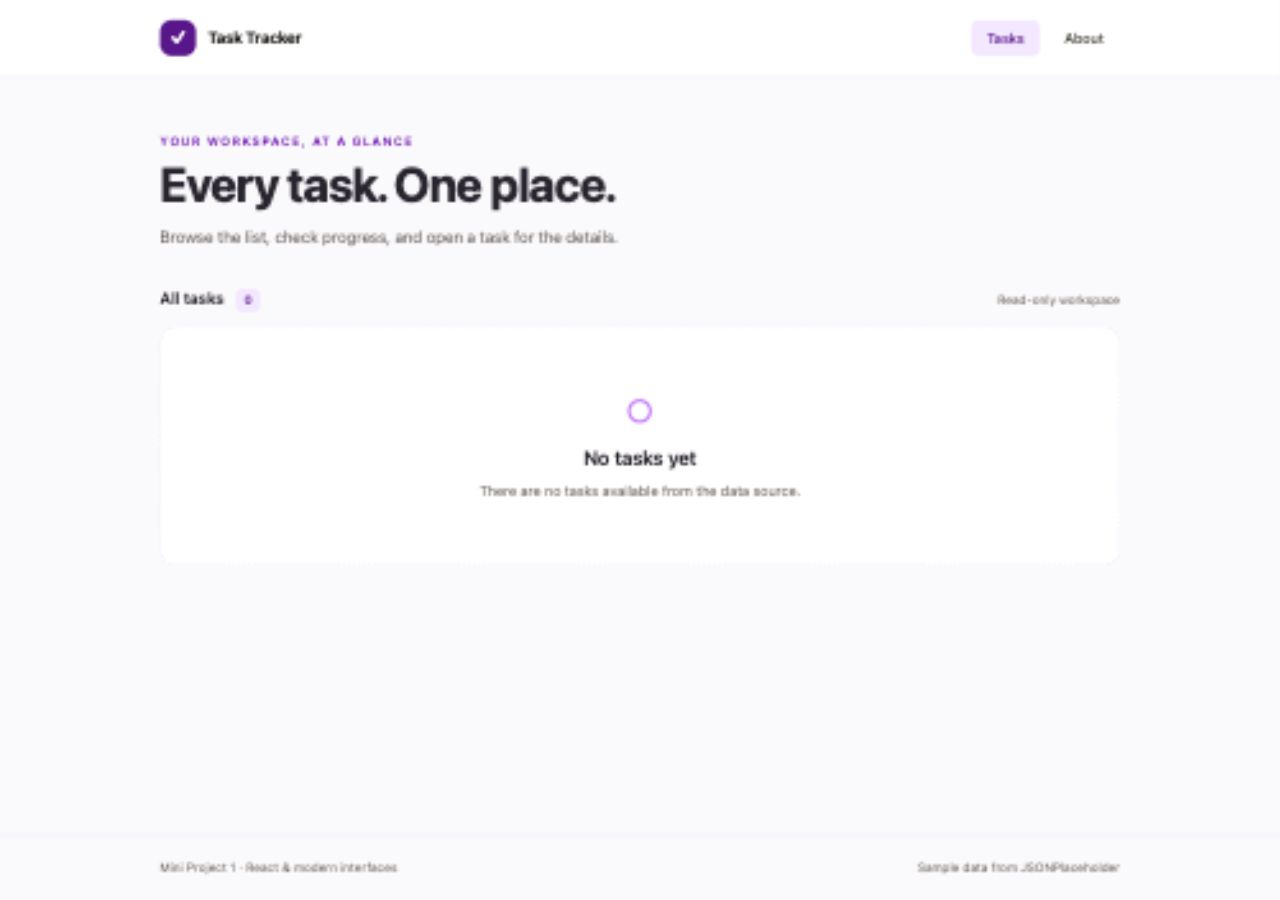
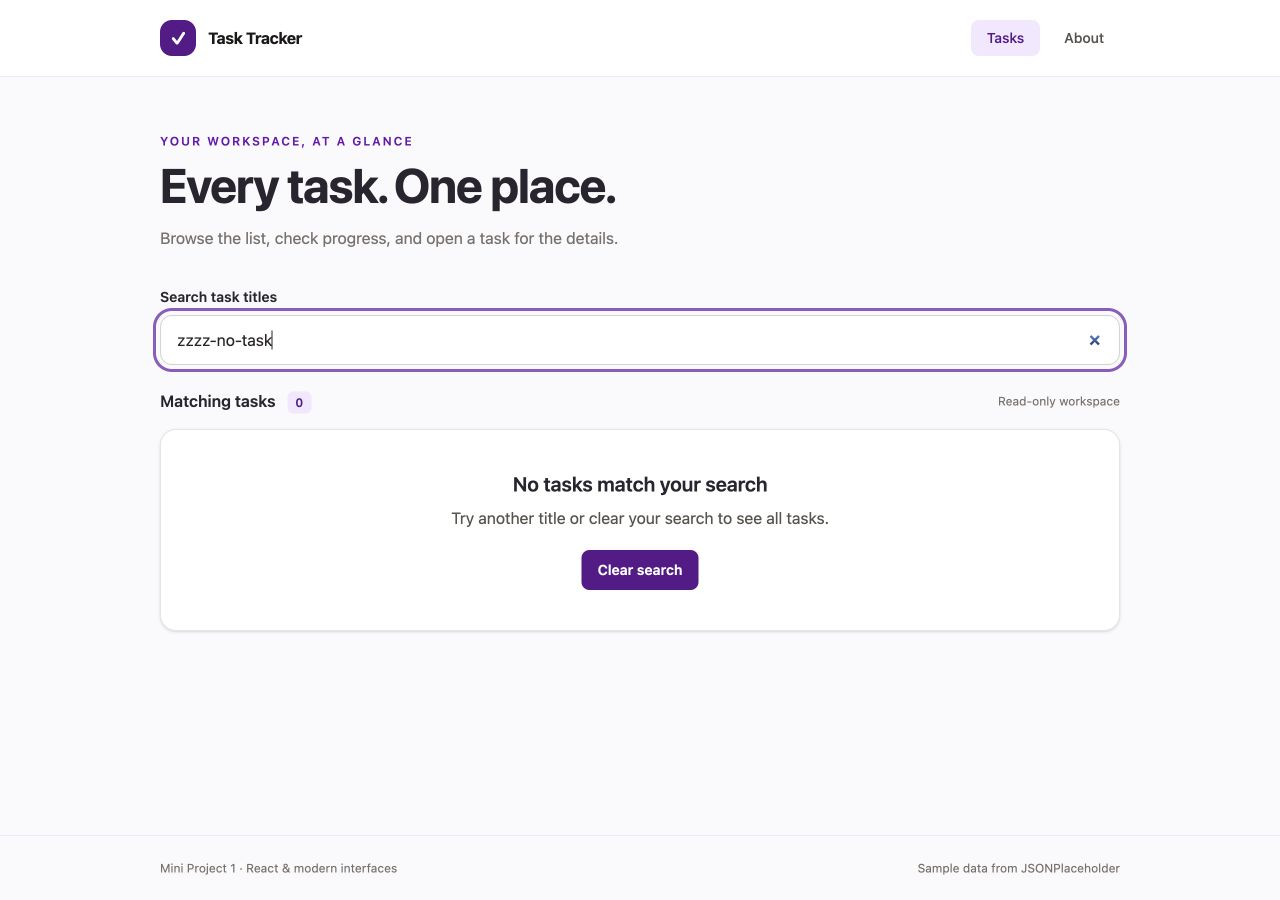
Add useState title search and complete assignment documentation

diff --git a/src/pages/TasksPage.jsx b/src/pages/TasksPage.jsx
@@ -1,3 +1,5 @@
+import { useState } from "react";
+import TaskSearch from "../components/TaskSearch";
 import { useQuery } from "@tanstack/react-query";
 import { getTasks } from "../api/tasks";
 import TaskList from "../components/TaskList";
@@ -7,7 +9,12 @@ import {
   EmptyState,
 } from "../components/RequestStates";
 export default function TasksPage() {
+  const [search, setSearch] = useState("");
   const query = useQuery({ queryKey: ["todos"], queryFn: getTasks });
+  const searchTerm = search.trim().toLowerCase();
+  const filteredTasks = (query.data ?? []).filter((task) =>
+    task.title.toLowerCase().includes(searchTerm),
+  );
   return (
     <>
       <div className="mb-9">
@@ -32,11 +39,12 @@ export default function TasksPage() {
           )}
           {query.data && (
             <>
+              <TaskSearch value={search} onChange={setSearch} />
               <div className="mb-4 flex items-center justify-between gap-4">
                 <h2 className="font-semibold">
-                  All tasks{" "}
+                  {searchTerm ? "Matching tasks" : "All tasks"}{" "}
                   <span className="ml-2 rounded-md bg-purple-100 px-2 py-1 text-xs text-purple-900">
-                    {query.data.length}
+                    {filteredTasks.length}
                   </span>
                 </h2>
                 <span className="text-xs text-stone-500">
@@ -44,7 +52,25 @@ export default function TasksPage() {
                 </span>
               </div>
               {query.data.length ? (
-                <TaskList tasks={query.data} />
+                filteredTasks.length ? (
+                  <TaskList tasks={filteredTasks} />
+                ) : (
+                  <section className="panel text-center" aria-live="polite">
+                    <h2 className="text-xl font-semibold">
+                      No tasks match your search
+                    </h2>
+                    <p className="mt-2 text-stone-600">
+                      Try another title or clear your search to see all tasks.
+                    </p>
+                    <button
+                      type="button"
+                      className="button mt-5"
+                      onClick={() => setSearch("")}
+                    >
+                      Clear search
+                    </button>
+                  </section>
+                )
               ) : (
                 <EmptyState />
               )}

diff --git a/src/test/app.test.jsx b/src/test/app.test.jsx
@@ -152,3 +152,47 @@ describe("Task Tracker", () => {
     );
   });
 });
+
+describe("Task title search", () => {
+  it("filters case-insensitively, trims whitespace, and does not refetch", async () => {
+    const fetchMock = vi
+      .spyOn(globalThis, "fetch")
+      .mockResolvedValue(response(tasks));
+    const user = userEvent.setup();
+    mount();
+    await screen.findByRole("link", { name: tasks[0].title });
+    await user.type(
+      screen.getByRole("searchbox", { name: "Search task titles" }),
+      "  REVIEW  ",
+    );
+    expect(
+      screen.getByRole("link", { name: tasks[1].title }),
+    ).toBeInTheDocument();
+    expect(
+      screen.queryByRole("link", { name: tasks[0].title }),
+    ).not.toBeInTheDocument();
+    expect(
+      screen.getByRole("heading", { name: "Matching tasks 1" }),
+    ).toBeInTheDocument();
+    expect(fetchMock).toHaveBeenCalledTimes(1);
+  });
+
+  it("shows no matches and restores all tasks when search is cleared", async () => {
+    vi.spyOn(globalThis, "fetch").mockResolvedValue(response(tasks));
+    const user = userEvent.setup();
+    mount();
+    await screen.findByRole("link", { name: tasks[0].title });
+    await user.type(screen.getByRole("searchbox"), "zzzz-no-task");
+    expect(
+      screen.getByRole("heading", { name: "No tasks match your search" }),
+    ).toBeInTheDocument();
+    await user.click(screen.getByRole("button", { name: "Clear search" }));
+    expect(screen.getByRole("searchbox")).toHaveValue("");
+    expect(
+      screen.getByRole("link", { name: tasks[0].title }),
+    ).toBeInTheDocument();
+    expect(
+      screen.getByRole("link", { name: tasks[1].title }),
+    ).toBeInTheDocument();
+  });
+});

diff --git a/src/components/TaskSearch.jsx b/src/components/TaskSearch.jsx
@@ -1,0 +1,17 @@
+export default function TaskSearch({ value, onChange }) {
+  return (
+    <div className="mb-6">
+      <label htmlFor="task-search" className="mb-2 block text-sm font-semibold">
+        Search task titles
+      </label>
+      <input
+        id="task-search"
+        type="search"
+        value={value}
+        onChange={(event) => onChange(event.target.value)}
+        placeholder="Search tasks…"
+        className="w-full rounded-xl border border-stone-300 bg-white px-4 py-3 text-stone-800 placeholder:text-stone-400"
+      />
+    </div>
+  );
+}

diff --git a/README.md b/README.md
@@ -1,6 +1,6 @@
 # Task Tracker
 
-A read-only React task browser for Mini Project 1, Full Stack Development with AI. Browse tasks, open details, and inspect their Open/Done status.
+A read-only React task browser for Mini Project 1, Full Stack Development with AI. Browse and search task titles, open details, and inspect their Open/Done status.
 
 ## Run locally
 
@@ -29,7 +29,7 @@ npm run preview
 - `/about`: purpose, technology, and data attribution.
 - Unknown routes and missing tasks have friendly fallback screens.
 
-`Layout` owns shared navigation. `TaskList` passes each task to `TaskRow`; `StatusBadge` renders completion state. Pages own queries and compose reusable loading, error, and empty-state components. React Router handles navigation; there is no duplicated task state in `useState`.
+`Layout` owns shared navigation. `TaskList` passes each task to `TaskRow`; `StatusBadge` renders completion state. Pages own queries and compose reusable loading, error, and empty-state components. `TasksPage` owns the search string with `useState` because both the search field and displayed list need it. `TaskSearch` receives the value and an `onChange` callback through props. The filtered list is derived from Query data and the search string; server data is never duplicated in local state. Search is case-insensitive, ignores surrounding whitespace, and resets when the Tasks page unmounts. React Router handles navigation.
 
 ## Data and caching
 
@@ -44,14 +44,14 @@ Automatic retries are disabled so failures are visible; **Try again** manually r
 - **Success:** open the app with internet access.
 - **Loading:** open browser Network tools, throttle the connection, and reload to clear in-memory Query data.
 - **Error/retry:** block `https://jsonplaceholder.typicode.com/*` in browser Network tools and reload; unblock it and select **Try again**. Request blocking is preferable to offline mode, which may pause Query requests.
-- **Empty:** `npm test -- -t 'shows an empty state'` supplies a controlled `[]` response and verifies the empty message.
+- **Empty:** search for `zzzz-no-task` to display the no-matches state, then select **Clear search** to restore the list. `npm test -- -t 'shows an empty state'` also verifies an empty API response using a controlled `[]` fixture.
 - **Missing task:** open `/tasks/9999`; invalid IDs such as `/tasks/nope` are rejected locally.
 - **Caching:** clear the Network log, visit a task, return to the list, and revisit that same task within 60 seconds. The integration suite also asserts the request count when revisiting two different tasks.
 - **Accessibility:** tab through navigation and task links, check visible focus, and use the skip link. Resize to a narrow mobile viewport and verify there is no horizontal scrolling.
 
 ## Scope
 
-React + Vite, React Router, TanStack Query, Tailwind CSS, ESLint, Vitest, and React Testing Library. No search, filters, task editing, statistics, login, backend, persistence, or deployment. User IDs are displayed as supplied by the API. Public API availability is outside the app's control.
+React + Vite, React Router, TanStack Query, Tailwind CSS, ESLint, Vitest, and React Testing Library. Includes client-side title search. No status/user filters, task editing, statistics, login, backend, persistence, or deployment. User IDs are displayed as supplied by the API. Public API availability is outside the app's control.
 
 See [PROJECT-BRIEF.md](PROJECT-BRIEF.md) for the rubric and source evidence. Its transcript reference points to local course materials outside this repository; those materials are intentionally not published.
 
@@ -59,11 +59,15 @@ See [PROJECT-BRIEF.md](PROJECT-BRIEF.md) for the rubric and source evidence. Its
 
 ![Task list on desktop](docs/screenshots/tasks-desktop.png)
 
-[Mobile task list](docs/screenshots/tasks-mobile.png) · [Task details](docs/screenshots/task-details.png) · [About](docs/screenshots/about-desktop.png)
+![Task details route](docs/screenshots/task-details.png)
+
+![About route](docs/screenshots/about-desktop.png)
+
+[Mobile task list](docs/screenshots/tasks-mobile.png)
 
 [Loading](docs/screenshots/loading-state.png) · [Empty](docs/screenshots/empty-state.png) · [Error](docs/screenshots/error-state.png)
 
-Request-state screenshots use controlled test-only responses. See [verification results](docs/VERIFICATION.md).
+The empty-state screenshot demonstrates title search with no matches. Loading and error screenshots use controlled test-only responses. See [verification results](docs/VERIFICATION.md).
 
 ## Submission
 

diff --git a/PROJECT-BRIEF.md b/PROJECT-BRIEF.md
@@ -20,7 +20,7 @@ Use React with Vite and JavaScript, React Router, TanStack Query, Tailwind CSS, 
 
 Use JSONPlaceholder at `https://jsonplaceholder.typicode.com`, with `/todos` for the list and `/todos/:id` for details. Display the supplied user ID; fetching user names is outside the selected minimum scope.
 
-**Excluded:** search, filters, completion checkboxes, task creation/editing/deletion, Stats, authentication, database, backend, deployment, and AI features inside the app.
+**Excluded:** status/user filters, completion checkboxes, task creation/editing/deletion, Stats, authentication, database, backend, deployment, and AI features inside the app.
 
 The mockup is illustrative. Its checkboxes, user-name badges, filters, charts, sample totals, and exact styling are not all mandatory. Use live response data rather than hard-coded mockup totals.
 
@@ -28,7 +28,7 @@ The mockup is illustrative. Its checkboxes, user-name badges, filters, charts, s
 
 - Use a shared layout with Tasks and About navigation.
 - Create reusable task-list, task-row, status-badge, and request-state components. Pass task data through props.
-- Keep fetched data in TanStack Query. Do not duplicate it in component state or add artificial state solely to demonstrate `useState`.
+- Keep fetched data in TanStack Query. Do not duplicate it in component state or add artificial state. Use `useState` for the task-title search string, owned by `TasksPage` and passed to `TaskSearch` through props and a callback.
 - Use `['todos']` for the list and `['todo', id]` for individual tasks. Keep detail IDs consistent in query keys.
 - Set `staleTime` to 60,000 milliseconds for observable cached navigation, matching the classroom demonstration. This is a freshness window, not a periodic-fetch timer.
 - Handle unsuccessful HTTP responses explicitly so failed requests reach the error UI.
@@ -47,13 +47,14 @@ The mockup is illustrative. Its checkboxes, user-name badges, filters, charts, s
 
 ## Rubric mapping
 
-The points below come from the supplied assignment slide. Evidence describes the planned submission, not completed work.
+The points below reflect the Canvas rubric reviewed November 9, 2026, superseding the classroom slide. Evidence describes the planned submission, not completed work.
 
 | Grading area | Points | Planned evidence |
 |---|---:|---|
-| Components, props, state ownership | 25 | Clear component responsibilities; task data passed through props; server data owned by Query |
+| Components, props, data flow | 15 | Clear component responsibilities; task data passed through props; server data owned by Query |
+| `useState` and state ownership | 15 | Search owned by the nearest common ancestor; results derived without duplicating server data |
 | Routing, including dynamic ID | 15 | Three routes; task details use `useParams` |
-| TanStack Query / server state | 20 | List/detail queries, distinct keys, observable cache reuse |
+| TanStack Query / server state | 15 | List/detail queries, distinct keys, observable cache reuse |
 | Loading / error / empty / success | 10 | Implemented states with reproducible verification steps |
 | Responsive Tailwind UI / basic accessibility | 10 | Usable mobile and desktop layouts; keyboard navigation |
 | ESLint / code quality | 10 | Passing lint check and readable code |
@@ -111,5 +112,5 @@ Reference materials inspected include the Part B `week4_reference_app` structure
 
 - The selected scope is the strict minimum, documented in one Markdown brief.
 - Route content, user-ID display, component boundaries, and the verification approach are project decisions; they are not presented as verbatim instructor requirements.
-- The supplied screenshots and transcript establish the available assignment requirements. The complete Canvas assignment was not inspected.
+- The supplied screenshots and transcript establish the available assignment requirements. The Canvas assignment was inspected November 9, 2026; it explicitly requires appropriate `useState` usage. Title search was added to satisfy that requirement and demonstrate an empty result directly.
 - The instructor names **November 9** as the deadline. Confirm the year, exact time, timezone, and any additional submission requirements in Canvas rather than inferring them from the recording.

diff --git a/docs/VERIFICATION.md b/docs/VERIFICATION.md
@@ -1,6 +1,8 @@
 # Verification
 
-Verified on November 7, 2026 (Asia/Manila).
+Initial verification: November 7, 2026 (Asia/Manila).
+
+Updated November 9, 2026: added title search with `useState` owned by `TasksPage`, a controlled `TaskSearch` component, and directly demonstrable no-match feedback. All 14 integration tests, ESLint, and the production build pass. Browser checks confirmed searching for `zzzz-no-task` produces zero matches, Clear search restores 200 tasks, and the 390-pixel mobile layout has no horizontal overflow. Refreshed desktop, mobile, and empty-state screenshots; embedded screenshots for all three routes in the README.
 
 - ESLint, production build, and 12 integration tests pass.
 - A separate clean Git clone passed `npm ci`, built successfully, started its development server, and displayed 200 live tasks in the browser.
@@ -18,4 +20,4 @@ The initial critical test-tool advisories were resolved by updating Vitest and r
 
 ## Submission checks still owned by the learner
 
-Confirm Canvas deadline and required repository visibility or grader invitations. No deployment or Canvas submission was performed.
+Confirm Canvas deadline. The repository is being made public at the learner’s request so graders can access it without invitations. No deployment or Canvas submission was performed.
